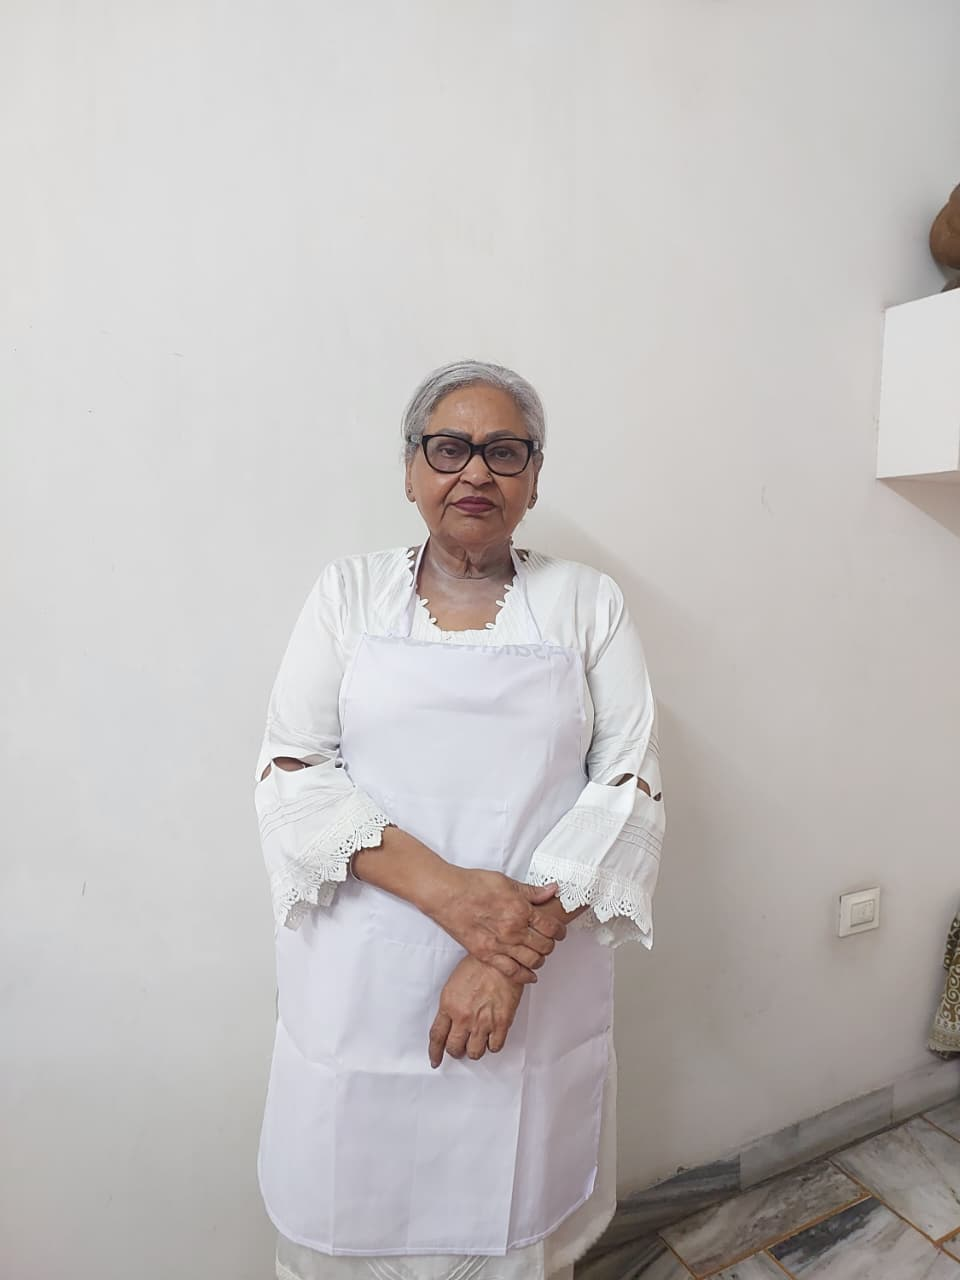
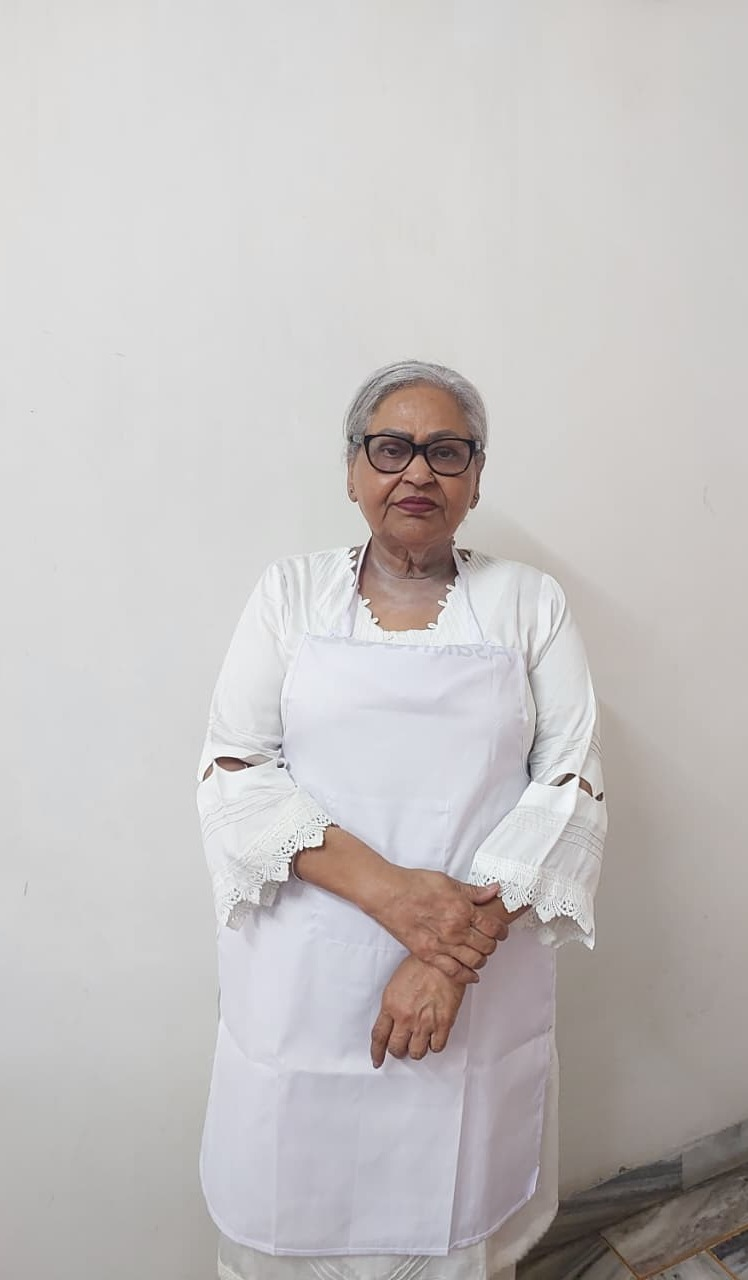
Fix Renu Dua photo crop, remove Shailendra/Virender from jury, switch to 2x2 grid

diff --git a/src/components/Jury.tsx b/src/components/Jury.tsx
@@ -4,20 +4,6 @@ import JuryCard from './JuryCard'
 
 const Jury = () => {
   const jury = [
-    
-    {
-      "name": "Chef Shailendra Singh",
-      "img": "/judges/1.png",
-      "text": "Chef Shailendra Singh brings a visionary approach to Indian hospitality, with a legacy built across global kitchens and luxury hotel chains. From pioneering regional cuisine at Sheraton and Hyatt to leading high-impact culinary transformations at Pride Hotels, he merges tradition with trend. Currently serving as Corporate Chef at Pride Hotels, his expertise spans large-scale pre-openings, concept creation, and team mentorship. He’s judged prestigious competitions like ICF, THSC, and IFCA, and is widely recognized for shaping India’s culinary narrative. A frequent guest speaker and media contributor, Chef Shailendra’s accolades include “Corporate Chef – Hotels” 2026 and leadership roles in award-winning dining ventures across continents."
-    },
-  
-
-    {
-      "name": "Chef Virender S. Datta (Chief Jury)",
-      "img": "/judges/2.png",
-      "class": "flex-row-reverse",
-      "text": "Chef Virender S. Datta, Founder & Chairman of IICA, is a revered figure in India’s hospitality sector with over 50 years of distinguished service. A graduate of the Hotel Catering Institute of India and OCLD, he has held key positions including Executive Chef, General Manager, VP–ITC Hotels, and Founder President of Fortune Park Hotels. Honoured with multiple Hall of Fame inductions and Lifetime Achievement Awards, he has shaped industry standards and culinary education. As Chairman of the NCHM Core Group and Board Member at IHM Pusa, his enduring legacy continues to influence generations of hospitality professionals."
-    },
     // {
     //   "name": "Eureka Araujo",
     //   "img": "/judge2.png",
@@ -31,7 +17,6 @@ const Jury = () => {
     {
       "name": "Balendra Singh",
       "img": "/judges/judge1.png",
-      "class": "flex-row-reverse",
       "text" : "Dr. Balendra Singh is director at Institute of Bakery &amp; Culinary Arts New Delhi. He established the institute to offer education based on his experience in hospitality industry as one of the leading pastry chef for aspiring professionals interested to make career in Bakery &amp; Pastry. He has a flair for innovation with expertise in international pastry cuisine. He studied at The IHM Dehradun with a focus on bakery and confectionery. Later he garnered over 20 years of experience at major hotels like Umaid Bhawan Palace Jodhpur, Grand Hyatt New Delhi, Westin Gurgaon, JW Marriott New Delhi, Pullman, Novotel New Delhi, The Taj Mahal New Delhi &amp; cruise ships around the world, where he honed his skills to international level. <br> He gained wide knowledge in casual &amp; fine dining, a-la-carte, buffet &amp; banquet and pastry verticals of foodservice industry. As a culinary educator, he focus on skill based education ensuring students a good career."
     },
     {
@@ -47,7 +32,7 @@ const Jury = () => {
       <h2 className='z-20 mx-auto text-5xl md:text-7xl mb-4  mt-10 text-center heading '>Our Jury</h2>
 
 
-      <div className='md:mx-24 mx-10 mt-10 grid grid-cols-1 gap-10'>
+      <div className='md:mx-24 mx-10 mt-10 grid grid-cols-1 sm:grid-cols-2 gap-10'>
 
         {
           jury.map((item) => (
